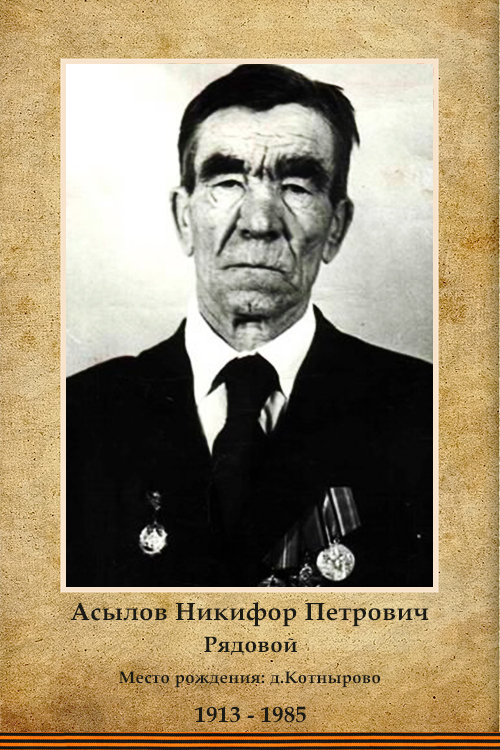
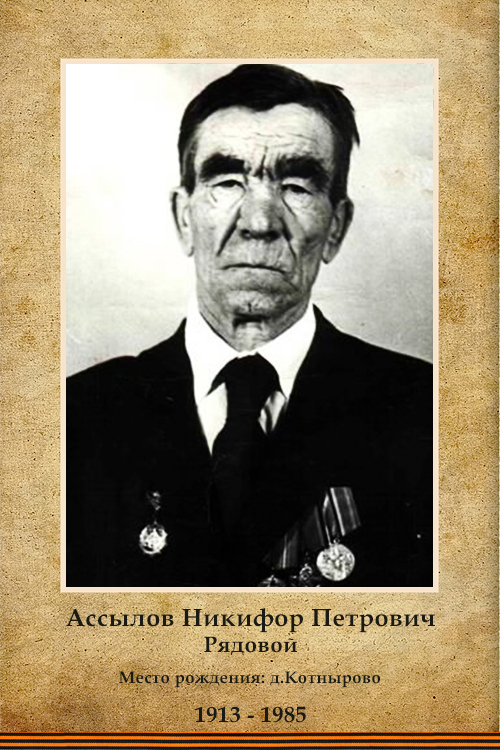
new06052024

Changed region(s): [[0.12, 0.7973, 0.87, 0.8587]]

diff --git a/veterany.html b/veterany.html
@@ -233,10 +233,46 @@ $(document).ready(function(){
 				<a data-lightbox="lightbox" href="img/big/09.jpg">
 					<img class="front" src="img/small/09.jpg" title="Анисимов Аркадий Матвеевич">
 				</a>
-				<a href="https://ya.ru" target="_blank" title="Анисимов Аркадий Матвеевич"><img id="btn15" class="btnhov" src="images/knopkaIstoria.svg" width="100" height="29" border="0"></a>
-                <a href="https://ya.ru" target="_blank" title="Анисимов Аркадий Матвеевич"><img id="btn16" src="images/knopkaIstoria2.svg" width="100" height="29" border="0" style="display: none;"></a>	
+				<a href="https://cloud.mail.ru/public/bgsy/RFtzPWkKT" target="_blank" title="Анисимов Аркадий Матвеевич"><img id="btn15" class="btnhov" src="images/knopkaIstoria.svg" width="100" height="29" border="0"></a>
+                <a href="https://cloud.mail.ru/public/bgsy/RFtzPWkKT" target="_blank" title="Анисимов Аркадий Матвеевич"><img id="btn16" src="images/knopkaIstoria2.svg" width="100" height="29" border="0" style="display: none;"></a>	
 			</div>
 		</div>
+		
+<script>
+$(document).ready(function(){
+    $('#btn586').on("click", function(){
+        $('#btn586').toggle(); //включает/выключает элемент id="btn1"
+		$('#btn587').toggle();
+    });
+});
+</script>
+		<div class="item">
+			<div>
+				<a data-lightbox="lightbox" href="img/big/0295.jpg">
+					<img class="front" src="img/small/0295.jpg" title="Антонов Андрей Владимирович"> 
+				</a>
+				<a href="https://cloud.mail.ru/public/iFPG/eqLXXRy85" target="_blank" title="Антонов Андрей Владимирович"><img id="btn586" class="btnhov" src="images/knopkaIstoria.svg" width="100" height="29" border="0"></a>
+                <a href="https://cloud.mail.ru/public/iFPG/eqLXXRy85" target="_blank" title="Антонов Андрей Владимирович"><img id="btn587" src="images/knopkaIstoria2.svg" width="100" height="29" border="0" style="display: none;"></a>	
+			</div>
+		</div>	
+
+<script>
+$(document).ready(function(){
+    $('#btn588').on("click", function(){
+        $('#btn588').toggle(); //включает/выключает элемент id="btn1"
+		$('#btn589').toggle();
+    });
+});
+</script>
+		<div class="item">
+			<div>
+				<a data-lightbox="lightbox" href="img/big/0296.jpg">
+					<img class="front" src="img/small/0296.jpg" title="Антонов Варлам Никитович">
+				</a>
+				<a href="https://cloud.mail.ru/public/JWXn/FV9yWqVeF" target="_blank" title="Антонов Варлам Никитович"><img id="btn588" class="btnhov" src="images/knopkaIstoria.svg" width="100" height="29" border="0"></a>
+                <a href="https://cloud.mail.ru/public/JWXn/FV9yWqVeF" target="_blank" title="Антонов Варлам Никитович"><img id="btn589" src="images/knopkaIstoria2.svg" width="100" height="29" border="0" style="display: none;"></a>	
+			</div>
+		</div>		
 
 <script>
 $(document).ready(function(){
@@ -251,8 +287,60 @@ $(document).ready(function(){
 				<a data-lightbox="lightbox" href="img/big/010.jpg">
 					<img class="front" src="img/small/010.jpg" title="Антонов Константин Владимирович"> 
 				</a>
-				<a href="https://ya.ru" target="_blank" title="Антонов Константин Владимирович"><img id="btn17" class="btnhov" src="images/knopkaIstoria.svg" width="100" height="29" border="0"></a>
-                <a href="https://ya.ru" target="_blank" title="Антонов Константин Владимирович"><img id="btn18" src="images/knopkaIstoria2.svg" width="100" height="29" border="0" style="display: none;"></a>	
+				<a href="https://cloud.mail.ru/public/dty9/CvSuxLDzb" target="_blank" title="Антонов Константин Владимирович"><img id="btn17" class="btnhov" src="images/knopkaIstoria.svg" width="100" height="29" border="0"></a>
+                <a href="https://cloud.mail.ru/public/dty9/CvSuxLDzb" target="_blank" title="Антонов Константин Владимирович"><img id="btn18" src="images/knopkaIstoria2.svg" width="100" height="29" border="0" style="display: none;"></a>	
+			</div>
+		</div>
+		
+<script>
+$(document).ready(function(){
+    $('#btn590').on("click", function(){
+        $('#btn590').toggle(); //включает/выключает элемент id="btn1"
+		$('#btn591').toggle();
+    });
+});
+</script>
+		<div class="item">
+			<div>
+				<a data-lightbox="lightbox" href="img/big/0297.jpg">
+					<img class="front" src="img/small/0297.jpg" title="Антонов Семен Павлович"> 
+				</a>
+				<a href="https://cloud.mail.ru/public/1GTW/FQVfiwAeF" target="_blank" title="Антонов Семен Павлович"><img id="btn590" class="btnhov" src="images/knopkaIstoria.svg" width="100" height="29" border="0"></a>
+                <a href="https://cloud.mail.ru/public/1GTW/FQVfiwAeF" target="_blank" title="Антонов Семен Павлович"><img id="btn591" src="images/knopkaIstoria2.svg" width="100" height="29" border="0" style="display: none;"></a>	
+			</div>
+		</div>		
+
+<script>
+$(document).ready(function(){
+    $('#btn592').on("click", function(){
+        $('#btn592').toggle(); //включает/выключает элемент id="btn1"
+		$('#btn593').toggle();
+    });
+});
+</script>
+		<div class="item">
+			<div>
+				<a data-lightbox="lightbox" href="img/big/0298.jpg">
+					<img class="front" src="img/small/0298.jpg" title="Антонов Семен Тимофеевич"> 				</a>
+				<a href="https://cloud.mail.ru/public/Aj6o/GZncQKXL7" target="_blank" title="Антонов Семен Тимофеевич"><img id="btn592" class="btnhov" src="images/knopkaIstoria.svg" width="100" height="29" border="0"></a>
+                <a href="https://cloud.mail.ru/public/Aj6o/GZncQKXL7" target="_blank" title="Антонов Семен Тимофеевич"><img id="btn593" src="images/knopkaIstoria2.svg" width="100" height="29" border="0" style="display: none;"></a>	
+			</div>
+		</div>
+
+<script>
+$(document).ready(function(){
+    $('#btn594').on("click", function(){
+        $('#btn594').toggle(); //включает/выключает элемент id="btn1"
+		$('#btn595').toggle();
+    });
+});
+</script>
+		<div class="item">
+			<div>
+				<a data-lightbox="lightbox" href="img/big/0299.jpg">
+					<img class="front" src="img/small/0299.jpg" title="Антонов Степан Николаевич"> 				</a>
+				<a href="https://cloud.mail.ru/public/ccgt/QF4T81TTX" target="_blank" title="Антонов Степан Николаевич"><img id="btn594" class="btnhov" src="images/knopkaIstoria.svg" width="100" height="29" border="0"></a>
+                <a href="https://cloud.mail.ru/public/ccgt/QF4T81TTX" target="_blank" title="Антонов Степан Николаевич"><img id="btn595" src="images/knopkaIstoria2.svg" width="100" height="29" border="0" style="display: none;"></a>	
 			</div>
 		</div>
 
@@ -267,10 +355,10 @@ $(document).ready(function(){
 		<div class="item">
 			<div>
 				<a data-lightbox="lightbox" href="img/big/011.jpg">
-					<img class="front" src="img/small/011.jpg" title="Асылов Никифор Петрович"> 
+					<img class="front" src="img/small/011.jpg" title="Ассылов Никифор Петрович"> 
 				</a>
-				<a href="https://ya.ru" target="_blank" title="Асылов Никифор Петрович"><img id="btn19" class="btnhov" src="images/knopkaIstoria.svg" width="100" height="29" border="0"></a>
-                <a href="https://ya.ru" target="_blank" title="Асылов Никифор Петрович"><img id="btn20" src="images/knopkaIstoria2.svg" width="100" height="29" border="0" style="display: none;"></a>		
+				<a href="https://cloud.mail.ru/public/S6uq/EoDADk9o4" target="_blank" title="Ассылов Никифор Петрович"><img id="btn19" class="btnhov" src="images/knopkaIstoria.svg" width="100" height="29" border="0"></a>
+                <a href="https://cloud.mail.ru/public/S6uq/EoDADk9o4" target="_blank" title="Ассылов Никифор Петрович"><img id="btn20" src="images/knopkaIstoria2.svg" width="100" height="29" border="0" style="display: none;"></a>		
 			</div>
 		</div>
 
@@ -329,21 +417,37 @@ $(document).ready(function(){
 
 <script>
 $(document).ready(function(){
-    $('#btn27').on("click", function(){
-        $('#btn27').toggle(); //включает/выключает элемент id="btn1"
-		$('#btn28').toggle();
+    $('#btn596').on("click", function(){
+        $('#btn596').toggle(); //включает/выключает элемент id="btn1"
+		$('#btn597').toggle();
     });
 });
 </script>
 		<div class="item">
 			<div>
-				<a data-lightbox="lightbox" href="img/big/014.jpg">
-					<img class="front" src="img/small/014.jpg" title="Барышников Леонид Григорьевич">
-				</a>
-				<a href="https://ya.ru" target="_blank" title="Барышников Леонид Григорьевич"><img id="btn27" class="btnhov" src="images/knopkaIstoria.svg" width="100" height="29" border="0"></a>
-                <a href="https://ya.ru" target="_blank" title="Барышников Леонид Григорьевич"><img id="btn28" src="images/knopkaIstoria2.svg" width="100" height="29" border="0" style="display: none;"></a>	
+				<a data-lightbox="lightbox" href="img/big/0300.jpg">
+					<img class="front" src="img/small/0300.jpg" title="Баженов Анатолий Павлович"> 				</a>
+				<a href="https://cloud.mail.ru/public/NaNi/ra6HohQM6" target="_blank" title="Баженов Анатолий Павлович"><img id="btn596" class="btnhov" src="images/knopkaIstoria.svg" width="100" height="29" border="0"></a>
+                <a href="https://cloud.mail.ru/public/NaNi/ra6HohQM6" target="_blank" title="Баженов Анатолий Павлович"><img id="btn597" src="images/knopkaIstoria2.svg" width="100" height="29" border="0" style="display: none;"></a>	
 			</div>
 		</div>
+		
+<script>
+$(document).ready(function(){
+    $('#btn598').on("click", function(){
+        $('#btn598').toggle(); //включает/выключает элемент id="btn1"
+		$('#btn599').toggle();
+    });
+});
+</script>
+		<div class="item">
+			<div>
+				<a data-lightbox="lightbox" href="img/big/0301.jpg">
+					<img class="front" src="img/small/0301.jpg" title="Баженов Андриан Фёдорович"> 				</a>
+				<a href="https://cloud.mail.ru/public/k8eH/WNALtmziU" target="_blank" title="Баженов Андриан Фёдорович"><img id="btn598" class="btnhov" src="images/knopkaIstoria.svg" width="100" height="29" border="0"></a>
+                <a href="https://cloud.mail.ru/public/k8eH/WNALtmziU" target="_blank" title="Баженов Андриан Фёдорович"><img id="btn599" src="images/knopkaIstoria2.svg" width="100" height="29" border="0" style="display: none;"></a>	
+			</div>
+		</div>		
 
 <script>
 $(document).ready(function(){
@@ -379,6 +483,23 @@ $(document).ready(function(){
                 <a href="https://ya.ru" target="_blank" title="Баженов Егор Дмитриевич"><img id="btn32" src="images/knopkaIstoria2.svg" width="100" height="29" border="0" style="display: none;"></a>	
 			</div>
 		</div>
+		
+<script>
+$(document).ready(function(){
+    $('#btn600').on("click", function(){
+        $('#btn600').toggle(); //включает/выключает элемент id="btn1"
+		$('#btn601').toggle();
+    });
+});
+</script>
+		<div class="item">
+			<div>
+				<a data-lightbox="lightbox" href="img/big/0302.jpg">
+					<img class="front" src="img/small/0302.jpg" title="Баженов Николай Борисович"> 				</a>
+				<a href="https://cloud.mail.ru/public/4Kcw/EkkG5iyzb" target="_blank" title="Баженов Николай Борисович"><img id="btn600" class="btnhov" src="images/knopkaIstoria.svg" width="100" height="29" border="0"></a>
+                <a href="https://cloud.mail.ru/public/4Kcw/EkkG5iyzb" target="_blank" title="Баженов Николай Борисович"><img id="btn601" src="images/knopkaIstoria2.svg" width="100" height="29" border="0" style="display: none;"></a>	
+			</div>
+		</div>		
 
 <script>
 $(document).ready(function(){
@@ -429,8 +550,8 @@ $(document).ready(function(){
 				<a data-lightbox="lightbox" href="img/big/017.jpg">
 					<img class="front" src="img/small/017.jpg" title="Баженов Христофор Егорович"> 
 				</a>
-				<a href="https://ya.ru" target="_blank" title="Баженов Христофор Егорович"><img id="btn37" class="btnhov" src="images/knopkaIstoria.svg" width="100" height="29" border="0"></a>
-                <a href="https://ya.ru" target="_blank" title="Баженов Христофор Егорович"><img id="btn38" src="images/knopkaIstoria2.svg" width="100" height="29" border="0" style="display: none;"></a>	
+				<a href="https://cloud.mail.ru/public/izch/YybSxquZ8" target="_blank" title="Баженов Христофор Егорович"><img id="btn37" class="btnhov" src="images/knopkaIstoria.svg" width="100" height="29" border="0"></a>
+                <a href="https://cloud.mail.ru/public/izch/YybSxquZ8" target="_blank" title="Баженов Христофор Егорович"><img id="btn38" src="images/knopkaIstoria2.svg" width="100" height="29" border="0" style="display: none;"></a>	
 			</div>
 		</div>
 
@@ -448,6 +569,92 @@ $(document).ready(function(){
 					<img class="front" src="img/small/019.jpg" title="Баженов Христофор Иванович"></a>
 				<a href="https://ya.ru" target="_blank" title="Баженов Христофор Иванович"><img id="btn39" class="btnhov" src="images/knopkaIstoria.svg" width="100" height="29" border="0"></a>
                 <a href="https://ya.ru" target="_blank" title="Баженов Христофор Иванович"><img id="btn40" src="images/knopkaIstoria2.svg" width="100" height="29" border="0" style="display: none;"></a>	
+			</div>
+		</div>
+
+<script>
+$(document).ready(function(){
+    $('#btn602').on("click", function(){
+        $('#btn602').toggle(); //включает/выключает элемент id="btn1"
+		$('#btn603').toggle();
+    });
+});
+</script>
+		<div class="item">
+			<div>
+				<a data-lightbox="lightbox" href="img/big/0303.jpg">
+					<img class="front" src="img/small/0303.jpg" title="Барышников Александр Прокопьевич"> 				</a>
+				<a href="https://cloud.mail.ru/public/qMoB/mkh1bAMrM" target="_blank" title="Барышников Александр Прокопьевич"><img id="btn602" class="btnhov" src="images/knopkaIstoria.svg" width="100" height="29" border="0"></a>
+                <a href="https://cloud.mail.ru/public/qMoB/mkh1bAMrM" target="_blank" title="Барышников Александр Прокопьевич"><img id="btn603" src="images/knopkaIstoria2.svg" width="100" height="29" border="0" style="display: none;"></a>	
+			</div>
+		</div>
+		
+<script>
+$(document).ready(function(){
+    $('#btn27').on("click", function(){
+        $('#btn27').toggle(); //включает/выключает элемент id="btn1"
+		$('#btn28').toggle();
+    });
+});
+</script>
+		<div class="item">
+			<div>
+				<a data-lightbox="lightbox" href="img/big/014.jpg">
+					<img class="front" src="img/small/014.jpg" title="Барышников Леонид Григорьевич">
+				</a>
+				<a href="https://cloud.mail.ru/public/Motb/9bX4crdDT" target="_blank" title="Барышников Леонид Григорьевич"><img id="btn27" class="btnhov" src="images/knopkaIstoria.svg" width="100" height="29" border="0"></a>
+                <a href="https://cloud.mail.ru/public/Motb/9bX4crdDT" target="_blank" title="Барышников Леонид Григорьевич"><img id="btn28" src="images/knopkaIstoria2.svg" width="100" height="29" border="0" style="display: none;"></a>	
+			</div>
+		</div>		
+
+<script>
+$(document).ready(function(){
+    $('#btn604').on("click", function(){
+        $('#btn604').toggle(); //включает/выключает элемент id="btn1"
+		$('#btn605').toggle();
+    });
+});
+</script>
+		<div class="item">
+			<div>
+				<a data-lightbox="lightbox" href="img/big/0304.jpg">
+					<img class="front" src="img/small/0304.jpg" title="Барышникова Раиса Николаевна"> 				</a>
+				<a href="https://cloud.mail.ru/public/AVNR/qckNWqHkL" target="_blank" title="Барышникова Раиса Николаевна"><img id="btn604" class="btnhov" src="images/knopkaIstoria.svg" width="100" height="29" border="0"></a>
+                <a href="https://cloud.mail.ru/public/AVNR/qckNWqHkL" target="_blank" title="Барышникова Раиса Николаевна"><img id="btn605" src="images/knopkaIstoria2.svg" width="100" height="29" border="0" style="display: none;"></a>	
+			</div>
+		</div>
+
+<script>
+$(document).ready(function(){
+    $('#btn606').on("click", function(){
+        $('#btn606').toggle(); //включает/выключает элемент id="btn1"
+		$('#btn607').toggle();
+    });
+});
+</script>
+		<div class="item">
+			<div>
+				<a data-lightbox="lightbox" href="img/big/0305.jpg">
+					<img class="front" src="img/small/0305.jpg" title="Бегишев Василий Сидорович"> 				</a>
+				<a href="https://cloud.mail.ru/public/eE59/H7E6pC4t8" target="_blank" title="Бегишев Василий Сидорович"><img id="btn606" class="btnhov" src="images/knopkaIstoria.svg" width="100" height="29" border="0"></a>
+                <a href="https://cloud.mail.ru/public/eE59/H7E6pC4t8" target="_blank" title="Бегишев Василий Сидорович"><img id="btn607" src="images/knopkaIstoria2.svg" width="100" height="29" border="0" style="display: none;"></a>	
+			</div>
+		</div>
+
+<script>
+$(document).ready(function(){
+    $('#btn608').on("click", function(){
+        $('#btn608').toggle(); //включает/выключает элемент id="btn1"
+		$('#btn609').toggle();
+    });
+});
+</script>
+		<div class="item">
+			<div>
+				<a data-lightbox="lightbox" href="img/big/0306.jpg">
+					<img class="front" src="img/small/0306.jpg" title="Бельтюков Леонид Семенович"> 				</a>
+				<a href="https://cloud.mail.ru/public/VwbK/2nsCTEVGm" target="_blank" title="Бельтюков Леонид Семенович"><img id="btn608" class="btnhov" src="images/knopkaIstoria.svg" width="100" height="29" border="0"></a>
+                <a href="https://cloud.mail.ru/public/VwbK/2nsCTEVGm" target="_blank" title="Бельтюков Леонид Семенович"><img id="btn609" src="images/knopkaIstoria2.svg" width="100" height="29" border="0" style="display: none;"></a>	
 			</div>
 		</div>
 
@@ -486,6 +693,23 @@ $(document).ready(function(){
                 <a href="https://ya.ru" target="_blank" title="Блинов Аркадий Александрович"><img id="btn44" src="images/knopkaIstoria2.svg" width="100" height="29" border="0" style="display: none;"></a>	
 			</div>
 		</div>
+		
+<script>
+$(document).ready(function(){
+    $('#btn610').on("click", function(){
+        $('#btn610').toggle(); //включает/выключает элемент id="btn1"
+		$('#btn611').toggle();
+    });
+});
+</script>
+		<div class="item">
+			<div>
+				<a data-lightbox="lightbox" href="img/big/0307.jpg">
+					<img class="front" src="img/small/0307.jpg" title="Блинов Филипп Акимович"> 				</a>
+				<a href="https://cloud.mail.ru/public/dnLU/fyNivKij2" target="_blank" title="Блинов Филипп Акимович"><img id="btn610" class="btnhov" src="images/knopkaIstoria.svg" width="100" height="29" border="0"></a>
+                <a href="https://cloud.mail.ru/public/dnLU/fyNivKij2" target="_blank" title="Блинов Филипп Акимович"><img id="btn611" src="images/knopkaIstoria2.svg" width="100" height="29" border="0" style="display: none;"></a>	
+			</div>
+		</div>		
 
 <script>
 $(document).ready(function(){
